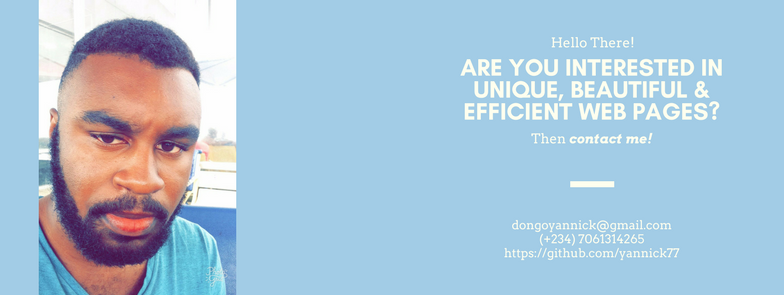
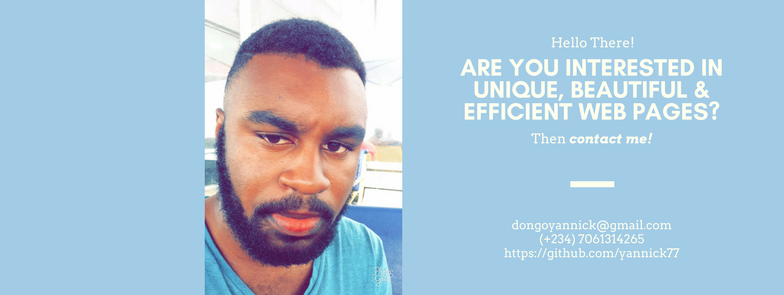
Updated the project to meet the project rubrik

diff --git a/index.html b/index.html
@@ -3,6 +3,7 @@
 <head>
     <meta charset="UTF-8">
     <meta http-equiv="Content-Type" content="text/html;   charset=windows-1252">
+    <meta name="viewport" content="width=device-width, initial-scale=1">
 
     <link href="https://fonts.googleapis.com/css?family=Lato:100,300" rel="stylesheet">
     <link rel="stylesheet" type="text/css" href="css/bootstrap.min.css">
@@ -11,10 +12,10 @@
     <script type="text/javascript" src="js/bootstrap.min.js"></script>
     <title>Yannick's Portfolio</title>
 </head>
-<body class="modal-open" style="padding-right: 17px;">
-<!--For some unknown reason, the page does not load the vertical sliders until one of the modals for featured work is clicked and closed-->
+<body style="padding-right: 17px;">
+
     <div class="container">
-        <div class="row">
+        <header class="row">
 
             <div class="col-md-6">
                 <img class="title-logo img-responsive" src="./img/logo1.png" alt="My logo">
@@ -25,11 +26,11 @@
                 <h3>Front-End Ninja</h3>
             </div>
 
-        </div>
+        </header>
 
         <div class="row">
             <div class="col-md-12">
-                <img src="./img/mybanner1.png" alt="A banner showiny picture and contact information" class="img-responsive">
+                <img src="./img/mybanner2.png" alt="A banner showing picture and contact information" class="img-responsive banner">
             </div>
         </div>
 
@@ -57,13 +58,13 @@
 
             <div class="col-md-6">
                 <img class="img-responsive" src="./img/GameOfChance1.png" data-toggle="modal" data-target="#gameOfChance" alt="Screenshot of the GameofChance Homescreen">
-                <h3><p>GameOfChance App</p></h3>
+                <h3>GameOfChance App</h3>
             </div>
 
             <div class="col-md-6">
                 <img class="img-responsive" src="./img/daltonBookstore.PNG" data-toggle="modal" data-target="#daltonBookstore" alt="Photo of John Terry">
 
-                <h3><p>Dalton Bookstore</p></h3>
+                <h3>Dalton Bookstore</h3>
             </div>
 
         </div>
@@ -141,6 +142,16 @@
             </div>
         </div>
     </div>
+    <div class="container">
+        <footer class="row">
+            <div class="col-md-12 contact" >
+                <br>
+                <p>Designed by: Yannick Dongo. Contact information: <a href="mailto:dongoyannick@gmail.com">
+                    dongoyannick@gmail.com</a>.</p>
+            </div>
 
+        </footer>
+
+    </div>
 </body>
 </html>

diff --git a/css/style.css b/css/style.css
@@ -4,6 +4,10 @@ body{
 	font-weight: 300;
 }
 
+.banner{
+	margin: auto;
+}
+
 .text-muted{
 	color: #BCBBBB;
 }
@@ -17,4 +21,8 @@ body{
 
 .title-logo{
 	margin-top: 20px;
+}
+
+.contact{
+	text-align: center;
 }
